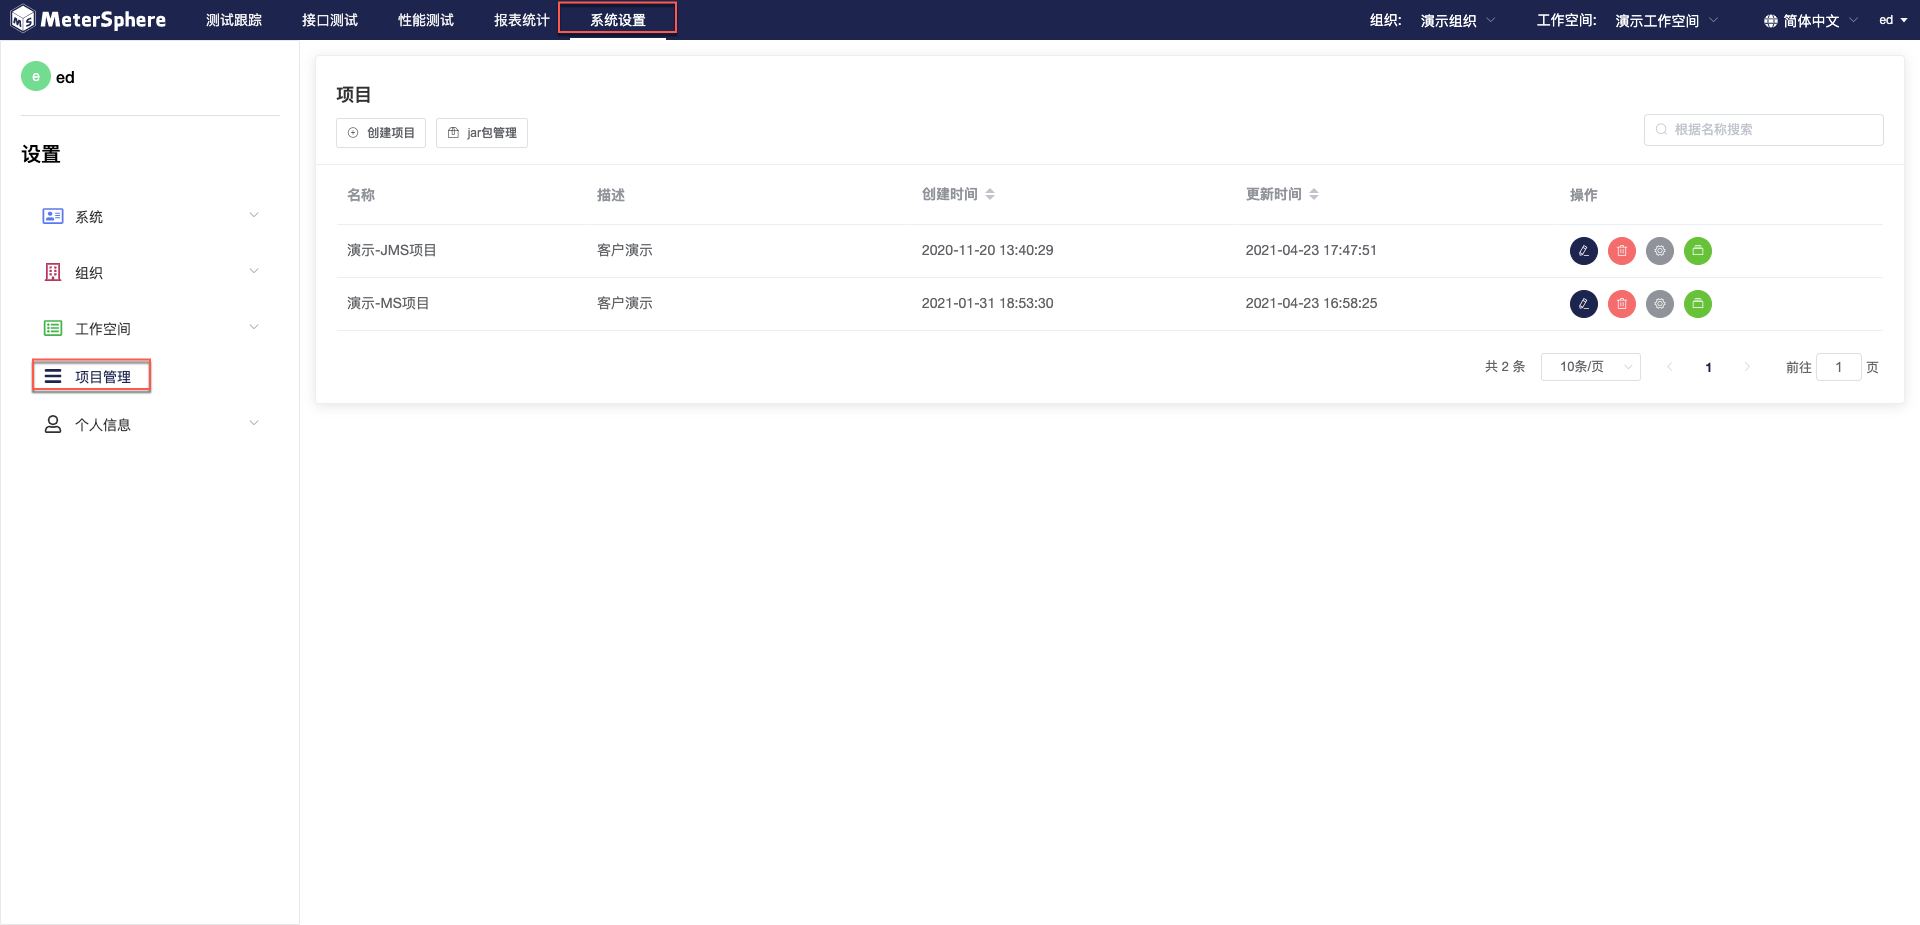
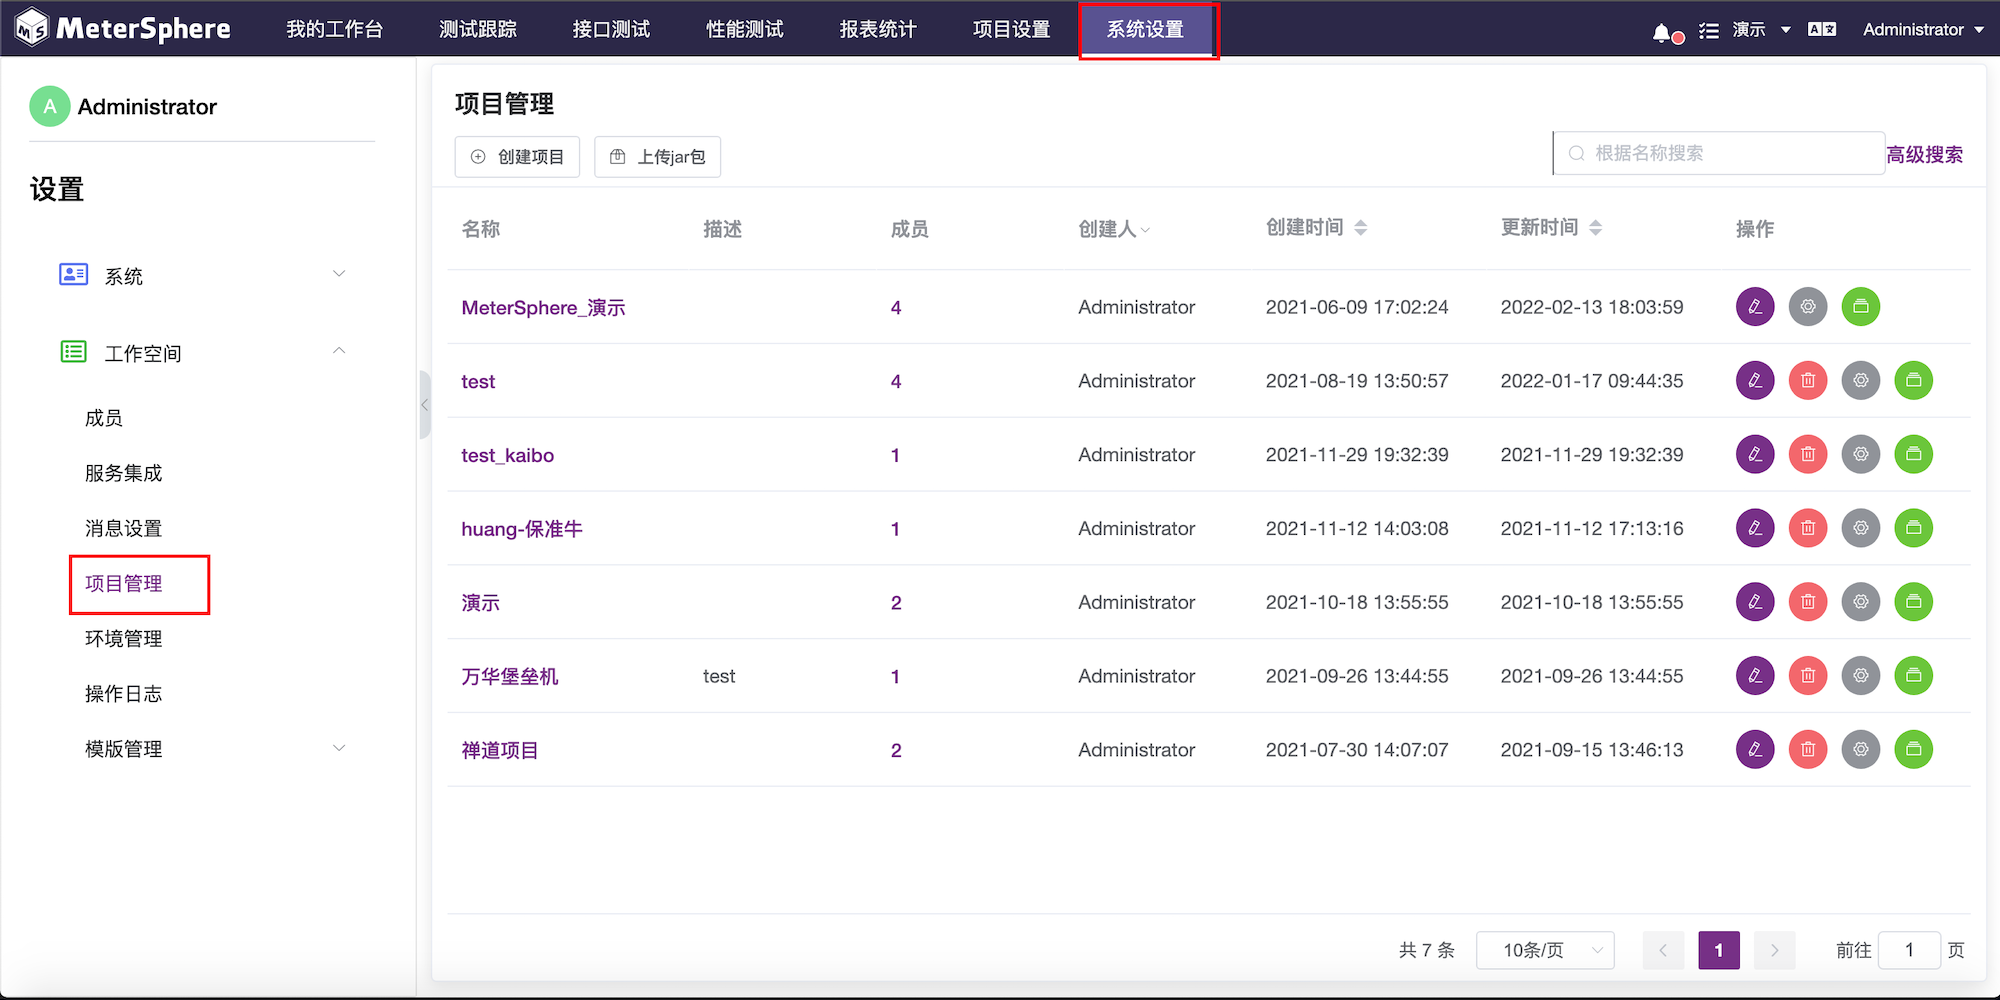
docs:更新快速开始

diff --git a/docs/quick_start/create_project.md b/docs/quick_start/create_project.md
@@ -1,3 +1,5 @@
+## 创建项目
+
 在 MeterSphere 中，测试用例、测试计划、接口测试及性能测试等功能及资源均通过项目的维度进行管理，进一步的管理模型说明请参考[管理模型](../system_arch.md#_2)。
 
 点击 `系统设置`--`项目管理` 菜单进入项目管理目录。

diff --git a/docs/quick_start/quick_start.md b/docs/quick_start/quick_start.md
@@ -76,5 +76,4 @@ curl -sSL https://github.com/metersphere/metersphere/releases/latest/download/qu
 
 ### 界面说明
 
-![!界面说明](../img/layout.png)
-
+![界面说明](../img/界面展示.png)
